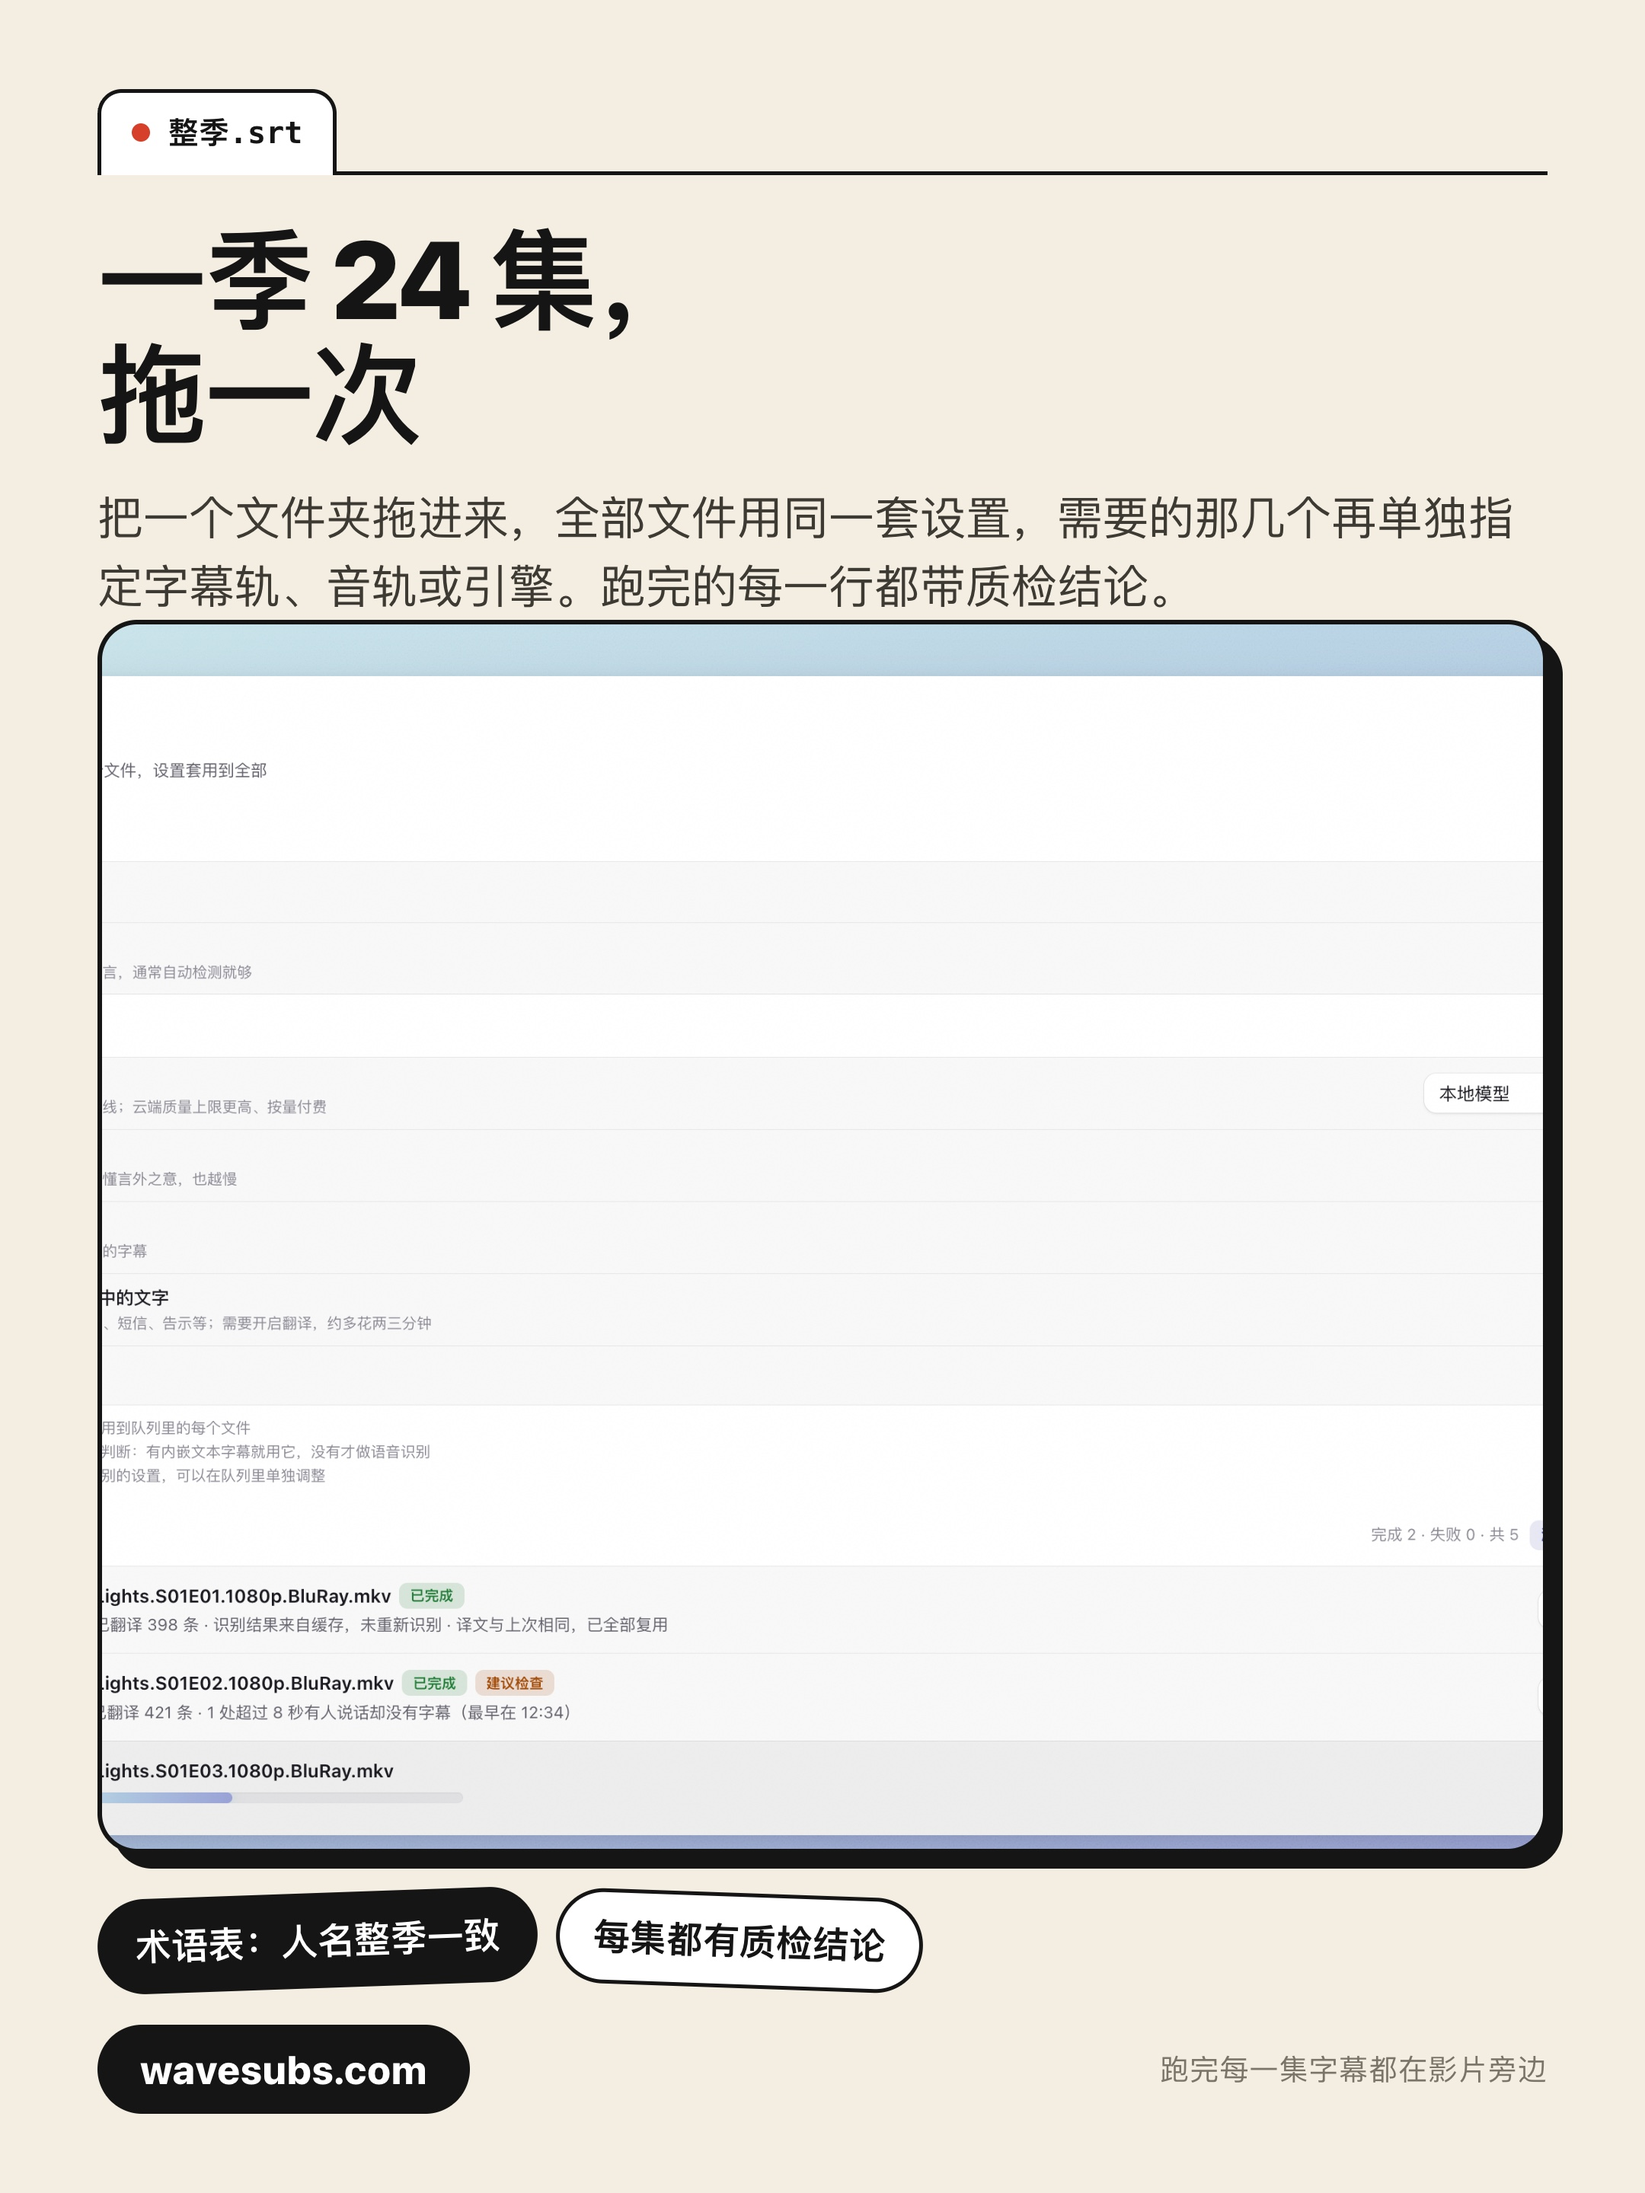
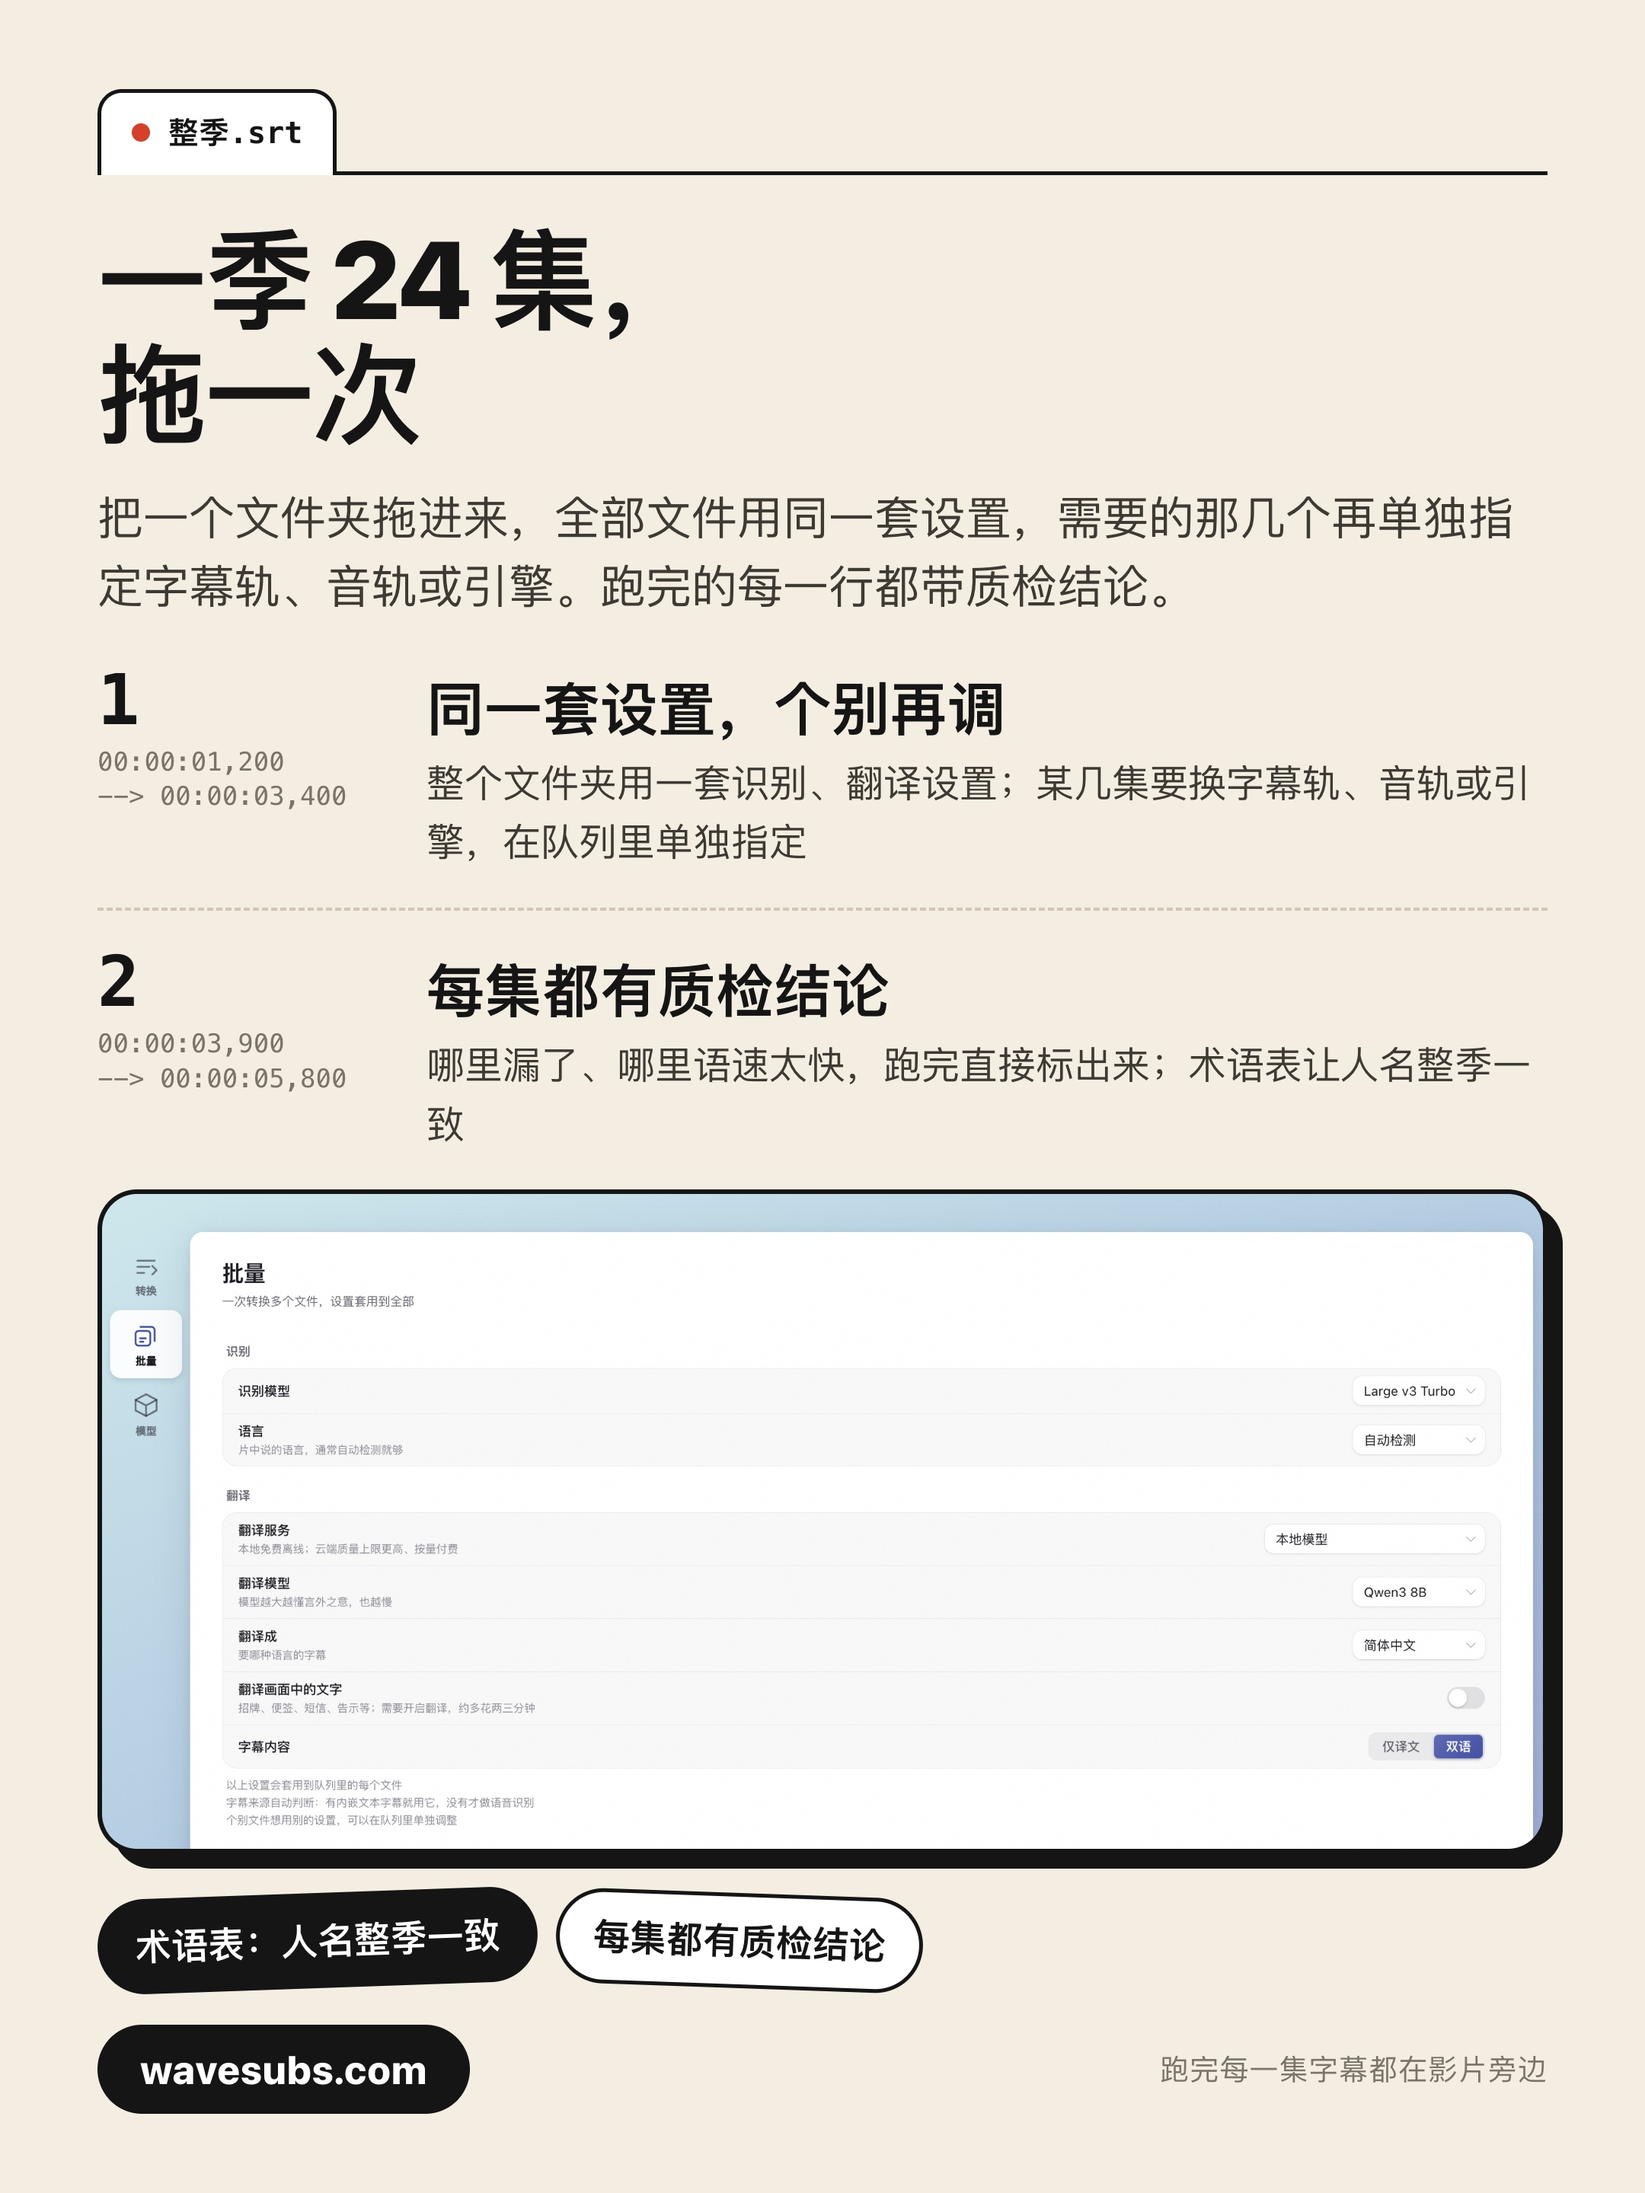
推广帖：截图一律按宽度等比放、不再横向裁切；空间不够从底部裁，多了框居中；编辑器/批量两张补 cue 填满

diff --git a/scripts/build-posts.py b/scripts/build-posts.py
@@ -45,7 +45,7 @@ h1{{font-size:64px;font-weight:800;line-height:1.15;margin:22px 0 0;letter-spaci
 .tag{{font-size:20px;font-weight:700;padding:8px 16px;border-radius:8px;letter-spacing:.02em}}
 .tag.new{{background:#EEF0FF;color:var(--indigo)}} .tag.fix{{background:#FFF1E6;color:var(--orange)}} .tag.win{{background:#E8F7EF;color:var(--green)}}
 .frame{{border:1px solid var(--line);border-radius:22px;overflow:hidden;background:#fff;box-shadow:0 30px 60px rgba(20,22,28,.12)}}
-.frame img{{width:100%;height:100%;display:block;object-fit:cover;object-position:top}}
+.frame img{{width:100%;height:auto;display:block}}
 .foot{{display:flex;justify-content:space-between;margin-top:auto;padding-top:18px;border-top:1px solid var(--line);font-family:{MONO};font-size:17px;color:var(--ink3);letter-spacing:.04em}}
 .kick{{display:flex;align-items:center;gap:14px;margin-top:52px}}
 .no{{font-family:{MONO};font-size:22px;color:var(--ink3);letter-spacing:.06em}}
@@ -59,8 +59,8 @@ h2{{font-size:58px;font-weight:800;line-height:1.15;margin:18px 0 0;letter-spaci
 .stat .n{{font-size:78px;font-weight:900;letter-spacing:-.04em;line-height:1;white-space:nowrap}} .stat .n b{{color:var(--indigo);font-weight:900}}
 .stat .l{{margin-top:14px;font-size:22px;color:var(--ink2);line-height:1.45}}
 .cap{{font-family:{MONO};font-size:16px;color:var(--ink3);margin-top:12px;letter-spacing:.03em}}
-.grow{{flex:1;min-height:0;display:flex;flex-direction:column;justify-content:flex-end;margin-top:34px}}
-.grow .frame{{flex:1;min-height:0}}
+.grow{{flex:1;min-height:0;display:flex;flex-direction:column;justify-content:center;margin-top:30px}}
+.grow .frame{{flex:0 1 auto;min-height:0;overflow:hidden}}
 /* 「有新版本」提示：按真实界面的文字画一张浅色示意 */
 .ui{{border:1px solid var(--line);border-radius:22px;background:#fff;box-shadow:0 30px 60px rgba(20,22,28,.12);padding:30px 36px;font-size:22px}}
 .ui .notes{{background:#F3F4F8;border-radius:14px;padding:18px 22px;margin:4px 0 18px;font-size:19px;line-height:1.6;color:var(--ink2);white-space:pre-line}}
@@ -131,8 +131,8 @@ def update_x_en():
     """X 用的三张 16:9：封面、数字、模型页"""
     foot = '<div class="foot"><span>wavesubs.com</span><span>macOS · Windows · free & open source</span></div>'
     tag = lambda cls, t: f'<span class="tag {cls}">{esc(t)}</span>'
-    two = lambda left, right: f'<div style="display:flex;gap:44px;flex:1;min-height:0;margin-top:18px"><div style="flex:0 0 520px;display:flex;flex-direction:column">{left}</div><div style="flex:1;min-width:0;display:flex;flex-direction:column;justify-content:flex-end">{right}</div></div>'
-    frame = lambda scene, hgt: f'<div class="frame" style="flex:1;min-height:0"><img src="{shot("en", scene)}"></div>'
+    two = lambda left, right: f'<div style="display:flex;gap:44px;flex:1;min-height:0;margin-top:18px"><div style="flex:0 0 520px;display:flex;flex-direction:column">{left}</div><div style="flex:1;min-width:0;display:flex;flex-direction:column;justify-content:center">{right}</div></div>'
+    frame = lambda scene, hgt: f'<div class="frame" style="flex:0 1 auto;min-height:0;overflow:hidden"><img src="{shot("en", scene)}"></div>'
     return [
         ('x1-cover', two(f'<div class="ver" style="font-size:190px;margin-top:10px">1.0.8</div><h1 style="font-size:40px;margin-top:6px">Now it translates the text on screen, too</h1><div class="tags" style="margin-top:18px">{tag("new","4 new")}{tag("fix","5 fixes")}{tag("win","Windows")}</div>',
                           frame('editor', 470)) + foot),
@@ -159,8 +159,9 @@ html,body{{margin:0;overflow:hidden;background:var(--cream);font-family:{SANS};c
 .stamp.ok{{border-color:var(--green);color:var(--green)}}
 .still{{position:relative;border-radius:26px;overflow:hidden;border:3px solid var(--ink);box-shadow:12px 12px 0 var(--ink);background:#000;display:flex}}
 .still img{{width:100%;height:100%;display:block;object-fit:cover;object-position:center}}
-.still.shotframe img{{object-position:top}}
+.still.shotframe{{flex:0 1 auto;display:block}} .still.shotframe img{{height:auto}}
 .grow .still{{flex:1;min-height:0}}
+.grow .still.shotframe{{flex:0 1 auto}}
 .subline{{position:absolute;left:24px;right:24px;bottom:28px;text-align:center;color:#fff;font-size:40px;font-weight:700;line-height:1.3;
   text-shadow:-2px -2px 0 #000,2px -2px 0 #000,-2px 2px 0 #000,2px 2px 0 #000,0 0 14px rgba(0,0,0,.7)}}
 .subline small{{display:block;font-size:22px;font-weight:500;opacity:.92}}
@@ -182,7 +183,7 @@ html,body{{margin:0;overflow:hidden;background:var(--cream);font-family:{SANS};c
 .cue h3{{margin:6px 0 8px;font-size:38px;font-weight:800;line-height:1.15}}
 .cue p{{margin:0;font-size:25px;line-height:1.55;color:var(--ink2)}}
 .lead{{font-size:30px;line-height:1.5;color:var(--ink2);margin:22px 0 0}}
-.grow{{flex:1;min-height:0;display:flex;flex-direction:column;justify-content:flex-end}}
+.grow{{flex:1;min-height:0;display:flex;flex-direction:column;justify-content:center}}
 .big{{font-size:120px;font-weight:900;letter-spacing:-.03em;line-height:1;margin-top:30px}}
 '''
 
@@ -215,8 +216,10 @@ def raw_cards_zh():
     cards.append(('flow', tab('怎么用.srt') + '<div class="h" style="font-size:72px">三条 cue，搞定</div>' + '<div style="margin-top:10px">' + cues(d['steps'], TCS) + '</div>' + frame('home-done') + stk(['自动检测语种', '时间轴对齐到真实说话时刻', 'SRT / ASS']) + foot('两小时电影 M 芯片约 3～6 分钟识别')))
     cards.append(('signs', tab('画面文字.ass') + '<div class="h" style="font-size:72px">画面里的字，<br>也给你<span class="em">翻</span></div>' + '<p class="lead">招牌、便签、短信、聊天气泡、告示、标题卡、人物名牌，按原文的位置写进字幕，不遮对白。</p>'
         + '<div class="grow" style="margin-top:30px">' + still('招牌和短信也有译文', '', '', '<small>画面文字</small>コンビニ 24時間 → 便利店 24 小时') + '</div>' + stk(['不下载模型', '一集多花两三分钟', 'Mac Vision · Windows OCR']) + foot('字幕组的活，本地 AI 顺手干了')))
-    cards.append(('editor', tab('编辑.srt') + '<div class="h" style="font-size:72px">点一行，<br>听这句</div>' + f'<p class="lead">{esc(d["ed_p"])}</p>' + frame('editor') + stk(['HEVC / DTS 也能预览', '改字 · 调时间 · 增删合并']) + foot('改完重新导出，任何播放器都认')))
-    cards.append(('batch', tab('整季.srt') + '<div class="h" style="font-size:72px">一季 24 集，<br>拖一次</div>' + f'<p class="lead">{esc(d["ba_p"])}</p>' + frame('batch') + stk(['术语表：人名整季一致', '每集都有质检结论']) + foot('跑完每一集字幕都在影片旁边')))
+    cards.append(('editor', tab('编辑.srt') + '<div class="h" style="font-size:72px">点一行，<br>听这句</div>' + f'<p class="lead">{esc(d["ed_p"])}</p>'
+        + '<div style="margin-top:6px">' + cues([('点任意一行，直接听这句', 'HEVC、DTS 这些浏览器放不了的格式也能预览，随包带了 ffmpeg'), ('改字、调时间、增删合并', '改完重新导出 SRT 或 ASS，任何播放器都认')], TCS[:2]) + '</div>' + frame('editor') + stk(['HEVC / DTS 也能预览', '改字 · 调时间 · 增删合并']) + foot('改完重新导出，任何播放器都认')))
+    cards.append(('batch', tab('整季.srt') + '<div class="h" style="font-size:72px">一季 24 集，<br>拖一次</div>' + f'<p class="lead">{esc(d["ba_p"])}</p>'
+        + '<div style="margin-top:6px">' + cues([('同一套设置，个别再调', '整个文件夹用一套识别、翻译设置；某几集要换字幕轨、音轨或引擎，在队列里单独指定'), ('每集都有质检结论', '哪里漏了、哪里语速太快，跑完直接标出来；术语表让人名整季一致')], TCS[:2]) + '</div>' + frame('batch') + stk(['术语表：人名整季一致', '每集都有质检结论']) + foot('跑完每一集字幕都在影片旁边')))
     cards.append(('free', tab('说明.txt') + '<div class="h" style="font-size:72px">免费。开源。<br>不联网。</div>' + '<div style="margin-top:14px">' + cues([('不上传', '影片、字幕、你的电脑配置，什么都不发出去；识别和翻译都在这台电脑上完成'), ('没有账号', '下载、打开、拖文件，三步之间没有注册和登录'), ('MIT 开源', '代码在 GitHub 上，谁都能看、能改、能自己打包')], TCS) + '</div>' + frame('settings') + stk(['macOS 12+ · Apple Silicon', 'Windows 10+', '免费 · 没有内购'], 2) + foot('github.com/jason-jm/wavesubs')))
     return cards
 
@@ -231,7 +234,7 @@ def raw_x_en():
                                                           still("Forgot it. It's five minutes if I run.", '忘れた。走れば五分だから。', 'SUBBED', raw_stamp='RAW')) + foot('free · open source · no account')),
         ('x2-flow', tab('how-it-works.srt') + '<div class="h" style="font-size:54px;margin-top:10px">Three cues, done</div>' + '<div style="margin-top:6px;display:grid;grid-template-columns:1fr 1fr 1fr;gap:26px">' + ''.join(f'<div><div class="i" style="font-family:{MONO};font-size:40px;font-weight:800">{i+1}</div><div class="t" style="font-family:{MONO};font-size:15px;color:var(--ink3)">{tc}</div><h3 style="margin:8px 0 6px;font-size:28px;font-weight:800;line-height:1.15">{esc(t)}</h3><p style="margin:0;font-size:19px;line-height:1.5;color:var(--ink2)">{esc(b)}</p></div>' for i, ((t, b), tc) in enumerate(zip(d['steps'], TCS))) + '</div><div class="grow"></div>' + foot('a two-hour film: about 3–6 minutes on Apple Silicon')),
         ('x3-editor', tab('edit.srt') + two('<div class="h" style="font-size:60px;margin-top:8px">Click a line,<br>hear the line</div>' + f'<p class="lead" style="font-size:23px">{esc(d["ed_p"])}</p>' + stk(['HEVC / DTS preview', 'Glossary keeps names consistent']),
-                                            f'<div class="still" style="box-shadow:10px 10px 0 var(--ink)"><img src="{shot("en", "editor")}"></div>') + foot('fix text or timing, export again')),
+                                            f'<div class="still shotframe" style="box-shadow:10px 10px 0 var(--ink)"><img src="{shot("en", "editor")}"></div>') + foot('fix text or timing, export again')),
     ]
 
 # ============================================================ 渲染
